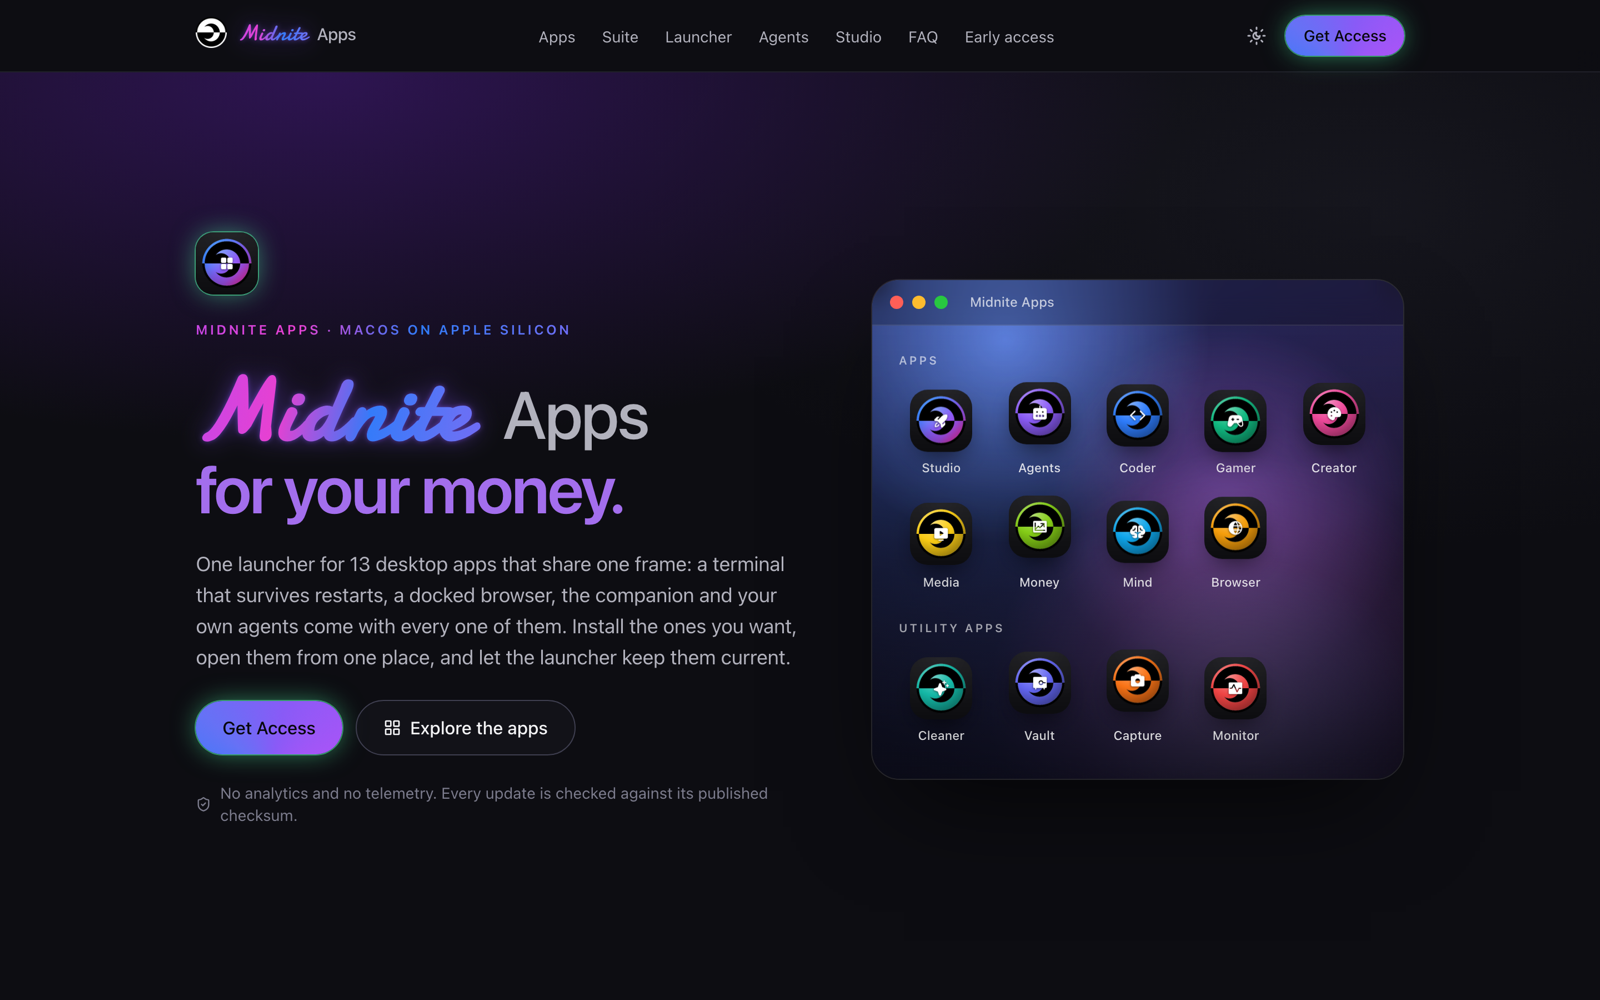
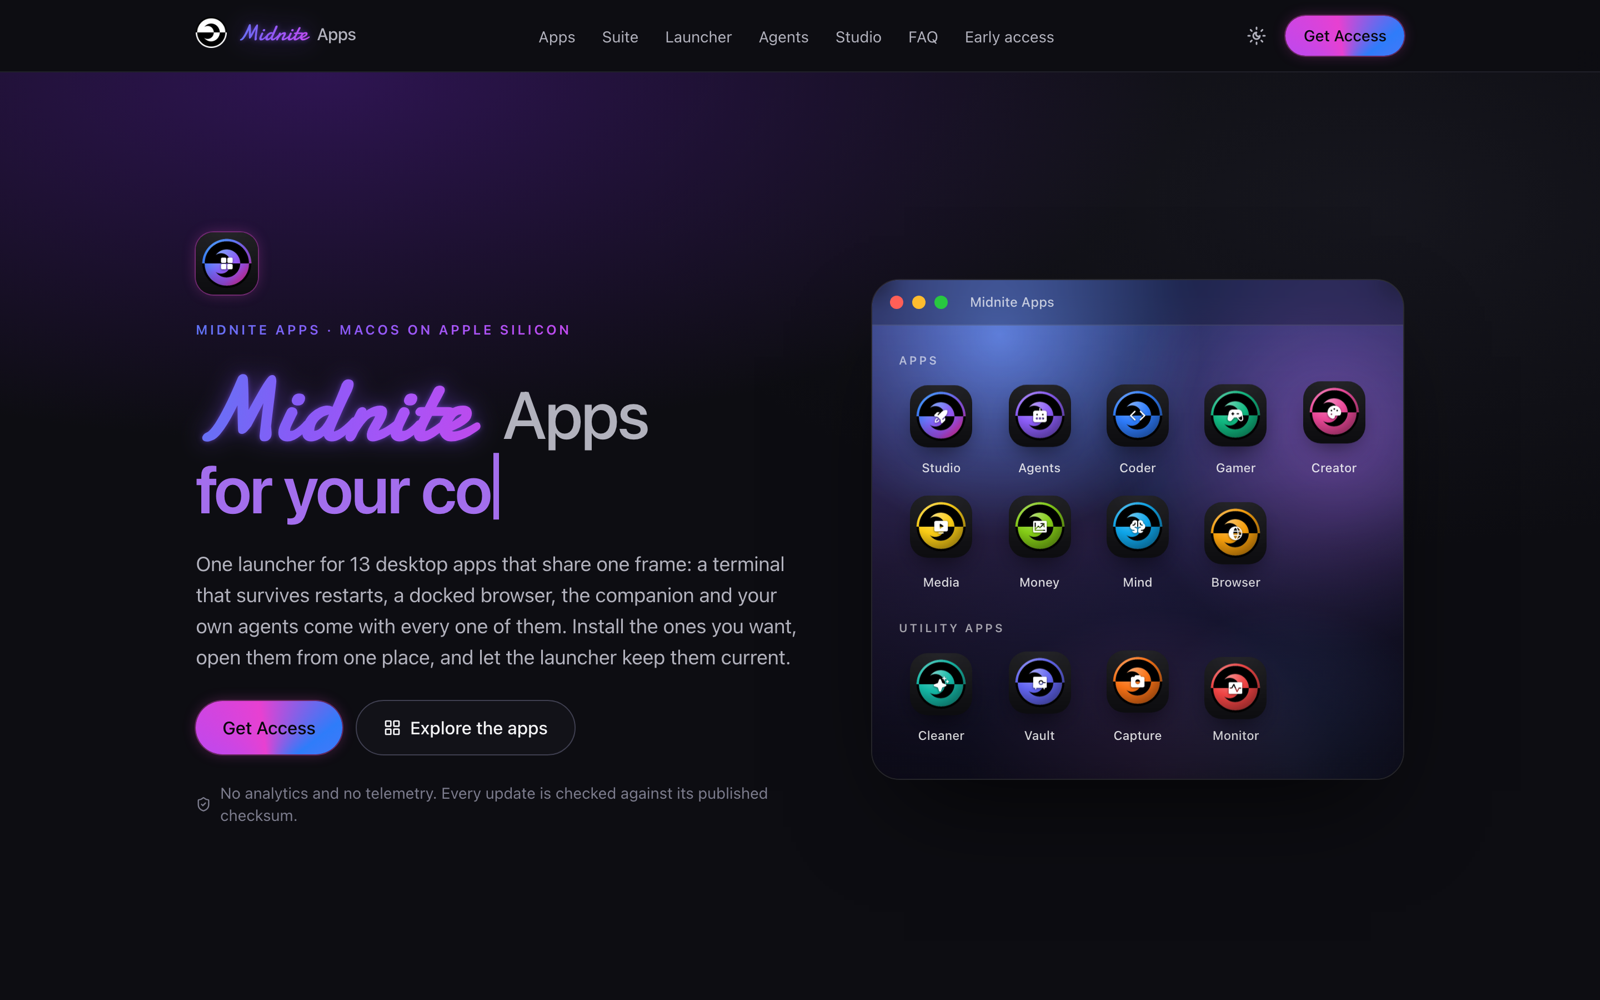
fix(website): drop 'for your money' from the hero typewriter

diff --git a/packages/website/src/sections/hero/hero.tsx b/packages/website/src/sections/hero/hero.tsx
@@ -15,7 +15,7 @@ const PHRASES = [
   'for your code.',
   'for your agents.',
   'for your media.',
-  'for your money.',
+  'for your ideas.',
   'for your machine.',
   'for all of it.',
 ] as const;
